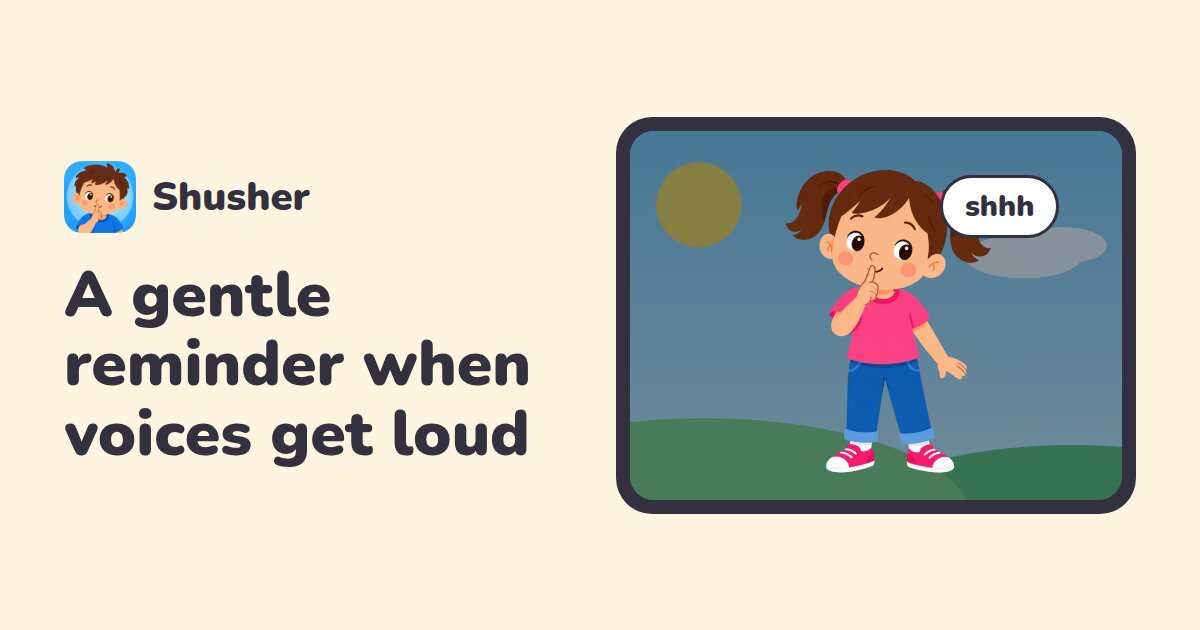
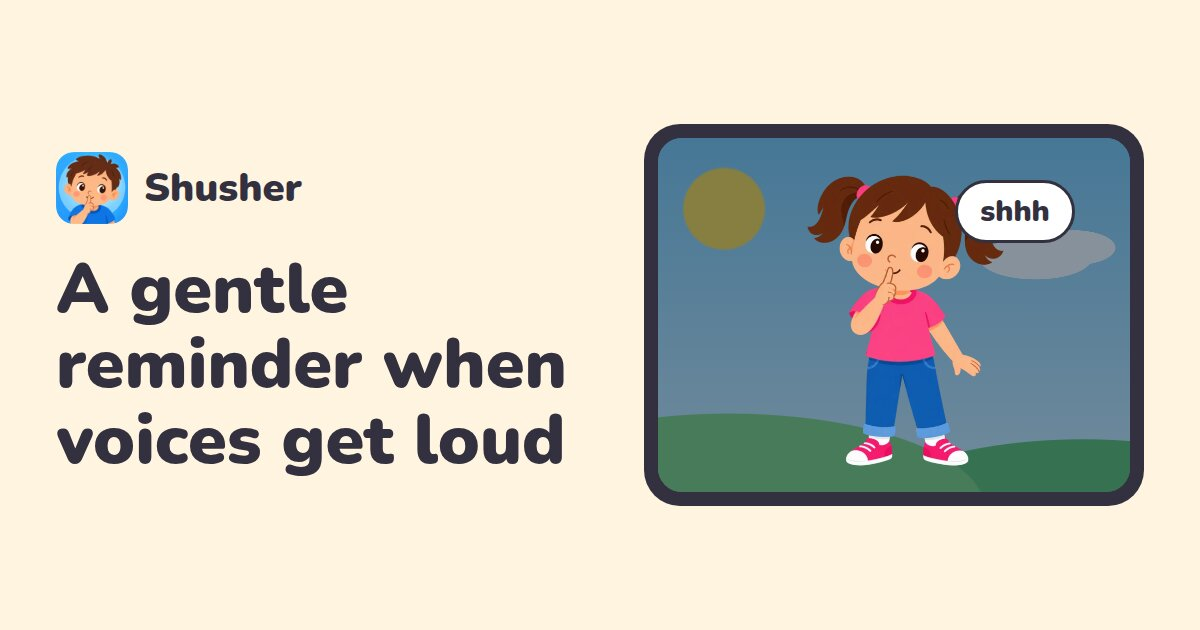
feat(site): add og:locale alternates and larger preview title

Changed region(s): [[0.0308, 0.181, 0.9558, 0.8143], [0.0308, 0.2413, 0.2775, 0.3921], [0.8633, 0.4222, 0.8942, 0.4524]]

diff --git a/site/og.html b/site/og.html
@@ -6,11 +6,11 @@
 <style>
   @font-face { font-family: "Nunito"; src: url("{{docs}}fonts/nunito-latin.woff2") format("woff2"); font-weight: 200 1000; }
   html, body { margin: 0; width: 1200px; height: 630px; overflow: hidden; }
-  body { display: grid; grid-template-columns: 1fr 520px; gap: 48px; align-items: center; padding: 0 64px; box-sizing: border-box;
+  body { display: grid; grid-template-columns: 1fr 500px; gap: 40px; align-items: center; padding: 0 56px; box-sizing: border-box;
     background: #FFF4E0; color: #33303F; font-family: "Nunito", sans-serif; }
   .brand { display: flex; align-items: center; gap: 16px; font-size: 40px; font-weight: 900; margin-bottom: 28px; }
   .brand img { width: 72px; height: 72px; border-radius: 18px; }
-  h1 { margin: 0; font-size: 64px; line-height: 1.08; font-weight: 900; }
+  h1 { margin: 0; font-size: 70px; line-height: 1.08; font-weight: 900; }
   .tablet { padding: 14px; background: #33303F; border-radius: 36px; }
   .screen { position: relative; aspect-ratio: 4 / 3; border-radius: 24px; overflow: hidden;
     background:

diff --git a/docs/fr/index.html b/docs/fr/index.html
@@ -22,6 +22,9 @@
 <meta property="og:image:height" content="630">
 <meta property="og:image:alt" content="Une tablette affichant une vidéo ; l’écran s’assombrit et une fille fait chut">
 <meta property="og:locale" content="fr_FR">
+<meta property="og:locale:alternate" content="en_US">
+<meta property="og:locale:alternate" content="es_LA">
+<meta property="og:locale:alternate" content="pt_BR">
 <meta name="twitter:card" content="summary_large_image">
 <meta name="twitter:title" content="Shusher · Un rappel tout doux quand la voix monte">
 <meta name="twitter:description" content="Application Android gratuite qui affiche un rappel visuel calme quand elle détecte un cri. Pensée pour les enfants autistes qui crient en utilisant leur tablette, et pour leurs familles.">

diff --git a/docs/es/index.html b/docs/es/index.html
@@ -22,6 +22,9 @@
 <meta property="og:image:height" content="630">
 <meta property="og:image:alt" content="Una tablet mostrando un video; la pantalla se oscurece y aparece una niña haciendo shh">
 <meta property="og:locale" content="es_LA">
+<meta property="og:locale:alternate" content="en_US">
+<meta property="og:locale:alternate" content="pt_BR">
+<meta property="og:locale:alternate" content="fr_FR">
 <meta name="twitter:card" content="summary_large_image">
 <meta name="twitter:title" content="Shusher · Un aviso amable cuando la voz sube">
 <meta name="twitter:description" content="App Android gratuita que muestra un aviso visual tranquilo cuando detecta un grito. Pensada para niños y niñas autistas que gritan mientras usan la tablet, y para sus familias.">

diff --git a/docs/pt/index.html b/docs/pt/index.html
@@ -22,6 +22,9 @@
 <meta property="og:image:height" content="630">
 <meta property="og:image:alt" content="Um tablet mostrando um vídeo; a tela escurece e aparece uma menina fazendo shh">
 <meta property="og:locale" content="pt_BR">
+<meta property="og:locale:alternate" content="en_US">
+<meta property="og:locale:alternate" content="es_LA">
+<meta property="og:locale:alternate" content="fr_FR">
 <meta name="twitter:card" content="summary_large_image">
 <meta name="twitter:title" content="Shusher · Um aviso gentil quando a voz sobe">
 <meta name="twitter:description" content="App Android gratuito que mostra um aviso visual tranquilo quando detecta um grito. Feito para crianças autistas que gritam enquanto usam o tablet, e para suas famílias.">

diff --git a/docs/index.html b/docs/index.html
@@ -22,6 +22,9 @@
 <meta property="og:image:height" content="630">
 <meta property="og:image:alt" content="A tablet playing a video; the screen dims and a girl goes shh">
 <meta property="og:locale" content="en_US">
+<meta property="og:locale:alternate" content="es_LA">
+<meta property="og:locale:alternate" content="pt_BR">
+<meta property="og:locale:alternate" content="fr_FR">
 <meta name="twitter:card" content="summary_large_image">
 <meta name="twitter:title" content="Shusher · A gentle reminder when voices get loud">
 <meta name="twitter:description" content="Free Android app that shows a calm visual reminder when it hears a scream. Made for autistic kids who shout while using their tablet, and for the families who support them.">

diff --git a/site/template.html b/site/template.html
@@ -18,6 +18,7 @@
 <meta property="og:image:height" content="630">
 <meta property="og:image:alt" content="{{t:alt.hero}}">
 <meta property="og:locale" content="{{t:og.locale}}">
+{{og_alternates}}
 <meta name="twitter:card" content="summary_large_image">
 <meta name="twitter:title" content="{{t:title}}">
 <meta name="twitter:description" content="{{t:desc}}">

diff --git a/tools/build_site.py b/tools/build_site.py
@@ -73,6 +73,8 @@ def render(lang, template, sprite):
         "og_image": BASE + f"img/og-{lang}.jpg", "jsonld": json.dumps(jsonld, ensure_ascii=False),
         "icons": sprite, "lang_menu": menu, "flag": FLAGS[lang], "code": lang.upper(),
         "others": json.dumps(LANGS[1:]),
+        "og_alternates": "\n".join(f'<meta property="og:locale:alternate" content="{STRINGS[l]["og.locale"]}">'
+                                   for l in LANGS if l != lang),
     }
 
     def sub(m):
